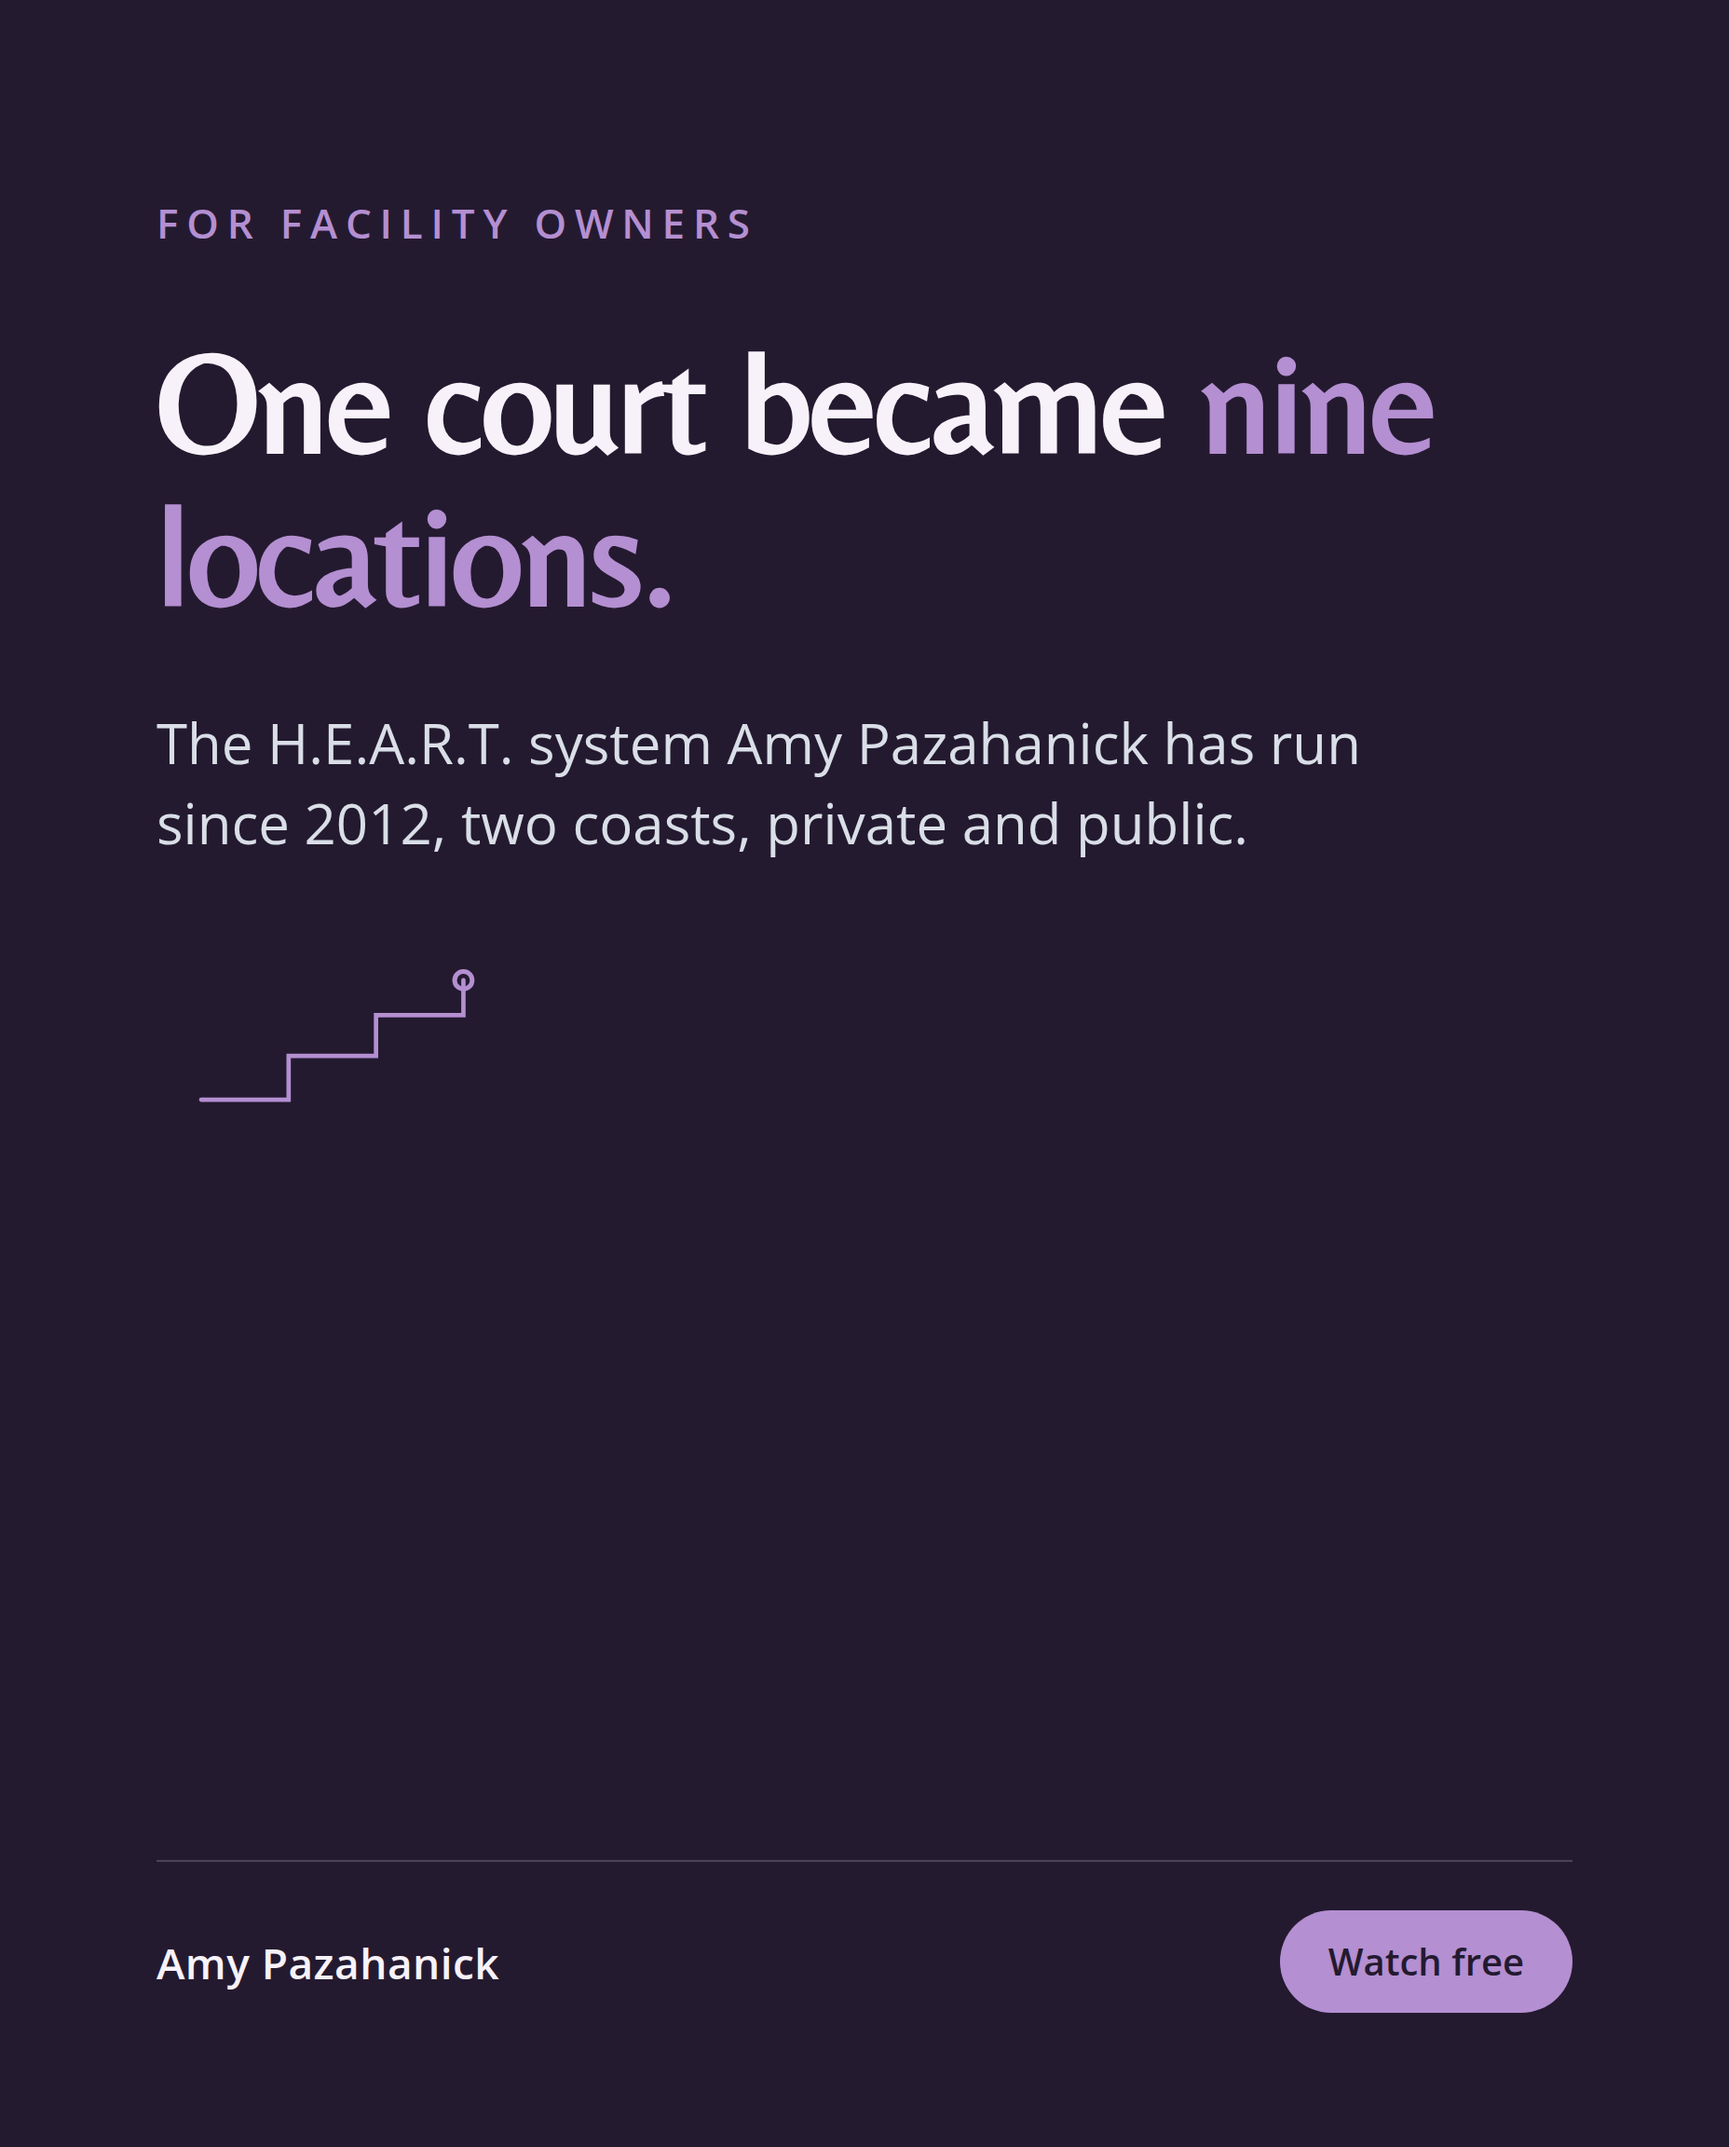
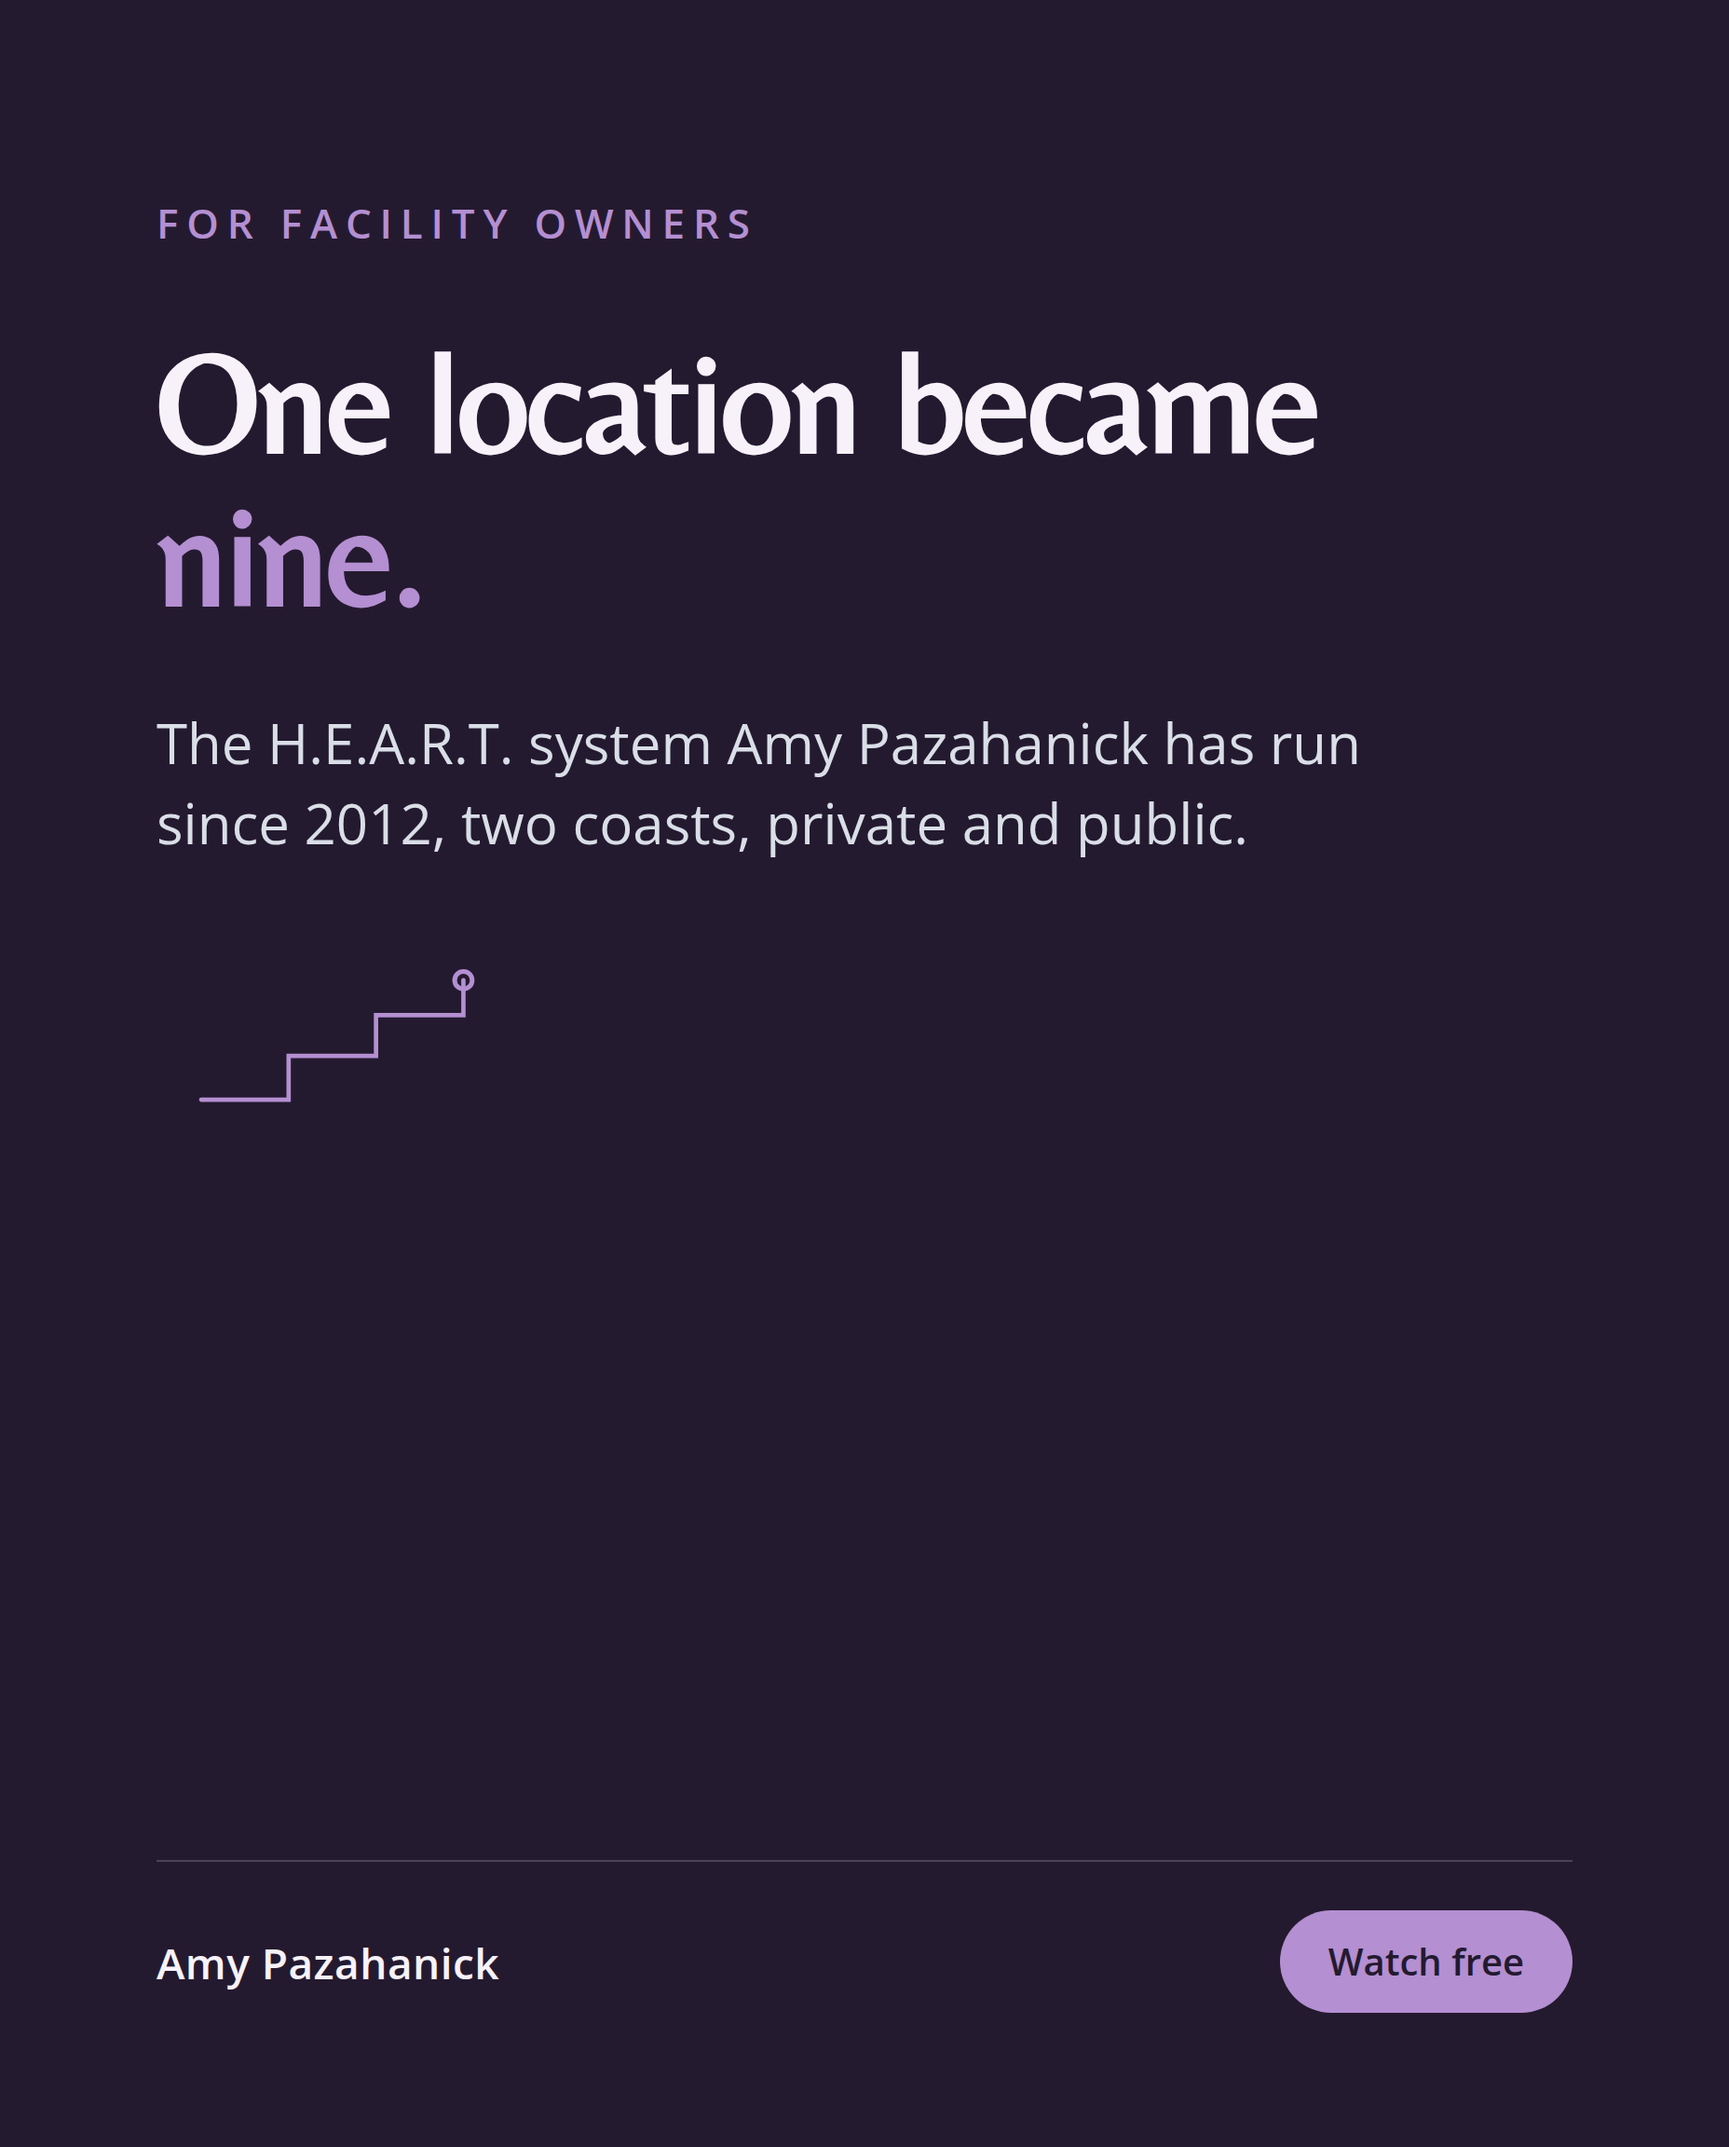
showcase: amy-pazahanick

Changed region(s): [[0.25, 0.1562, 0.8438, 0.2188], [0.0938, 0.2188, 0.375, 0.2812]]

diff --git a/amy-pazahanick/deck.html b/amy-pazahanick/deck.html
@@ -100,7 +100,7 @@ const S = [
  {t:'dark',title:'H.E.A.R.T. only works if you hire against it, train against it, and evaluate against it. Not hang it on a wall.'},
 
  {t:'section',idx:'Part Three',title:'Nine Locations, One Standard'},
- {t:'normal',k:'From one court to a real operation',title:'H.E.A.R.T. is the standard behind hiring and training 185 coaches and administrators the same way it would be done in person.',body:'Every new site starts with the same five values, not a new culture built from scratch.'},
+ {t:'normal',k:'From one location to a real operation',title:'H.E.A.R.T. is the standard behind hiring and training 185 coaches and administrators the same way it would be done in person.',body:'Every new site starts with the same five values, not a new culture built from scratch.'},
  {t:'normal',k:'Private and public, both',title:'The same standard runs across private clubs and municipal parks and recreation contracts.',body:'Writing an RFP for a city and running a private academy call for different skills. H.E.A.R.T. is what makes both sides answer to the same bar.'},
  {t:'normal',k:'What that has produced',title:'Nine locations across two coasts. 100 tennis courts, 83 pickleball courts, 3 platform tennis courts.',body:'Named National Public Provider of the Year in 2022, alongside recognition from the U.S. House, the California Legislature, and Orange County for economic impact that same year.'},
 

diff --git a/amy-pazahanick/index.html b/amy-pazahanick/index.html
@@ -105,7 +105,7 @@
         <tr><td>Facility-owner registrations / month</td><td>50</td><td>83</td></tr>
         <tr><td>Show rate</td><td>30%</td><td>35%</td></tr>
         <tr><td>Masterclass viewers</td><td>15</td><td>29</td></tr>
-        <tr><td>Next-step rate (books a discovery call)</td><td>5%</td><td>8%</td></tr>
+        <tr><td>Next-step rate</td><td>5%</td><td>8%</td></tr>
         <tr><td>New coaching engagements / month</td><td>1</td><td>2</td></tr>
         <tr class="hl"><td>New revenue added each month</td><td>~$2,000 / mo</td><td>~$4,000 / mo</td></tr>
       </tbody>
